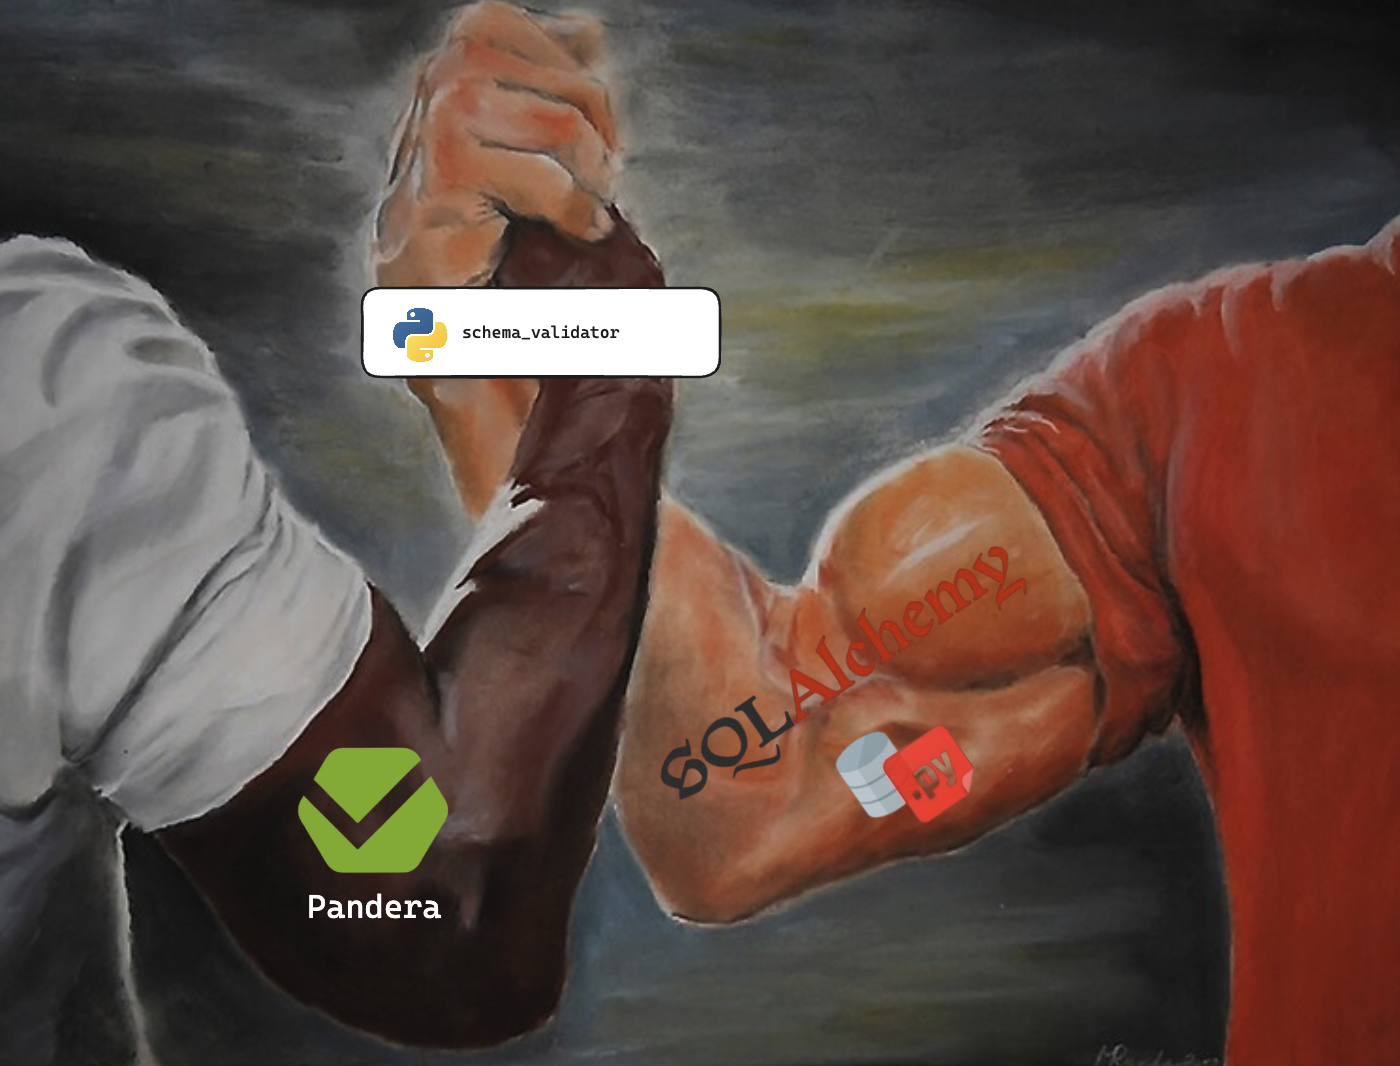
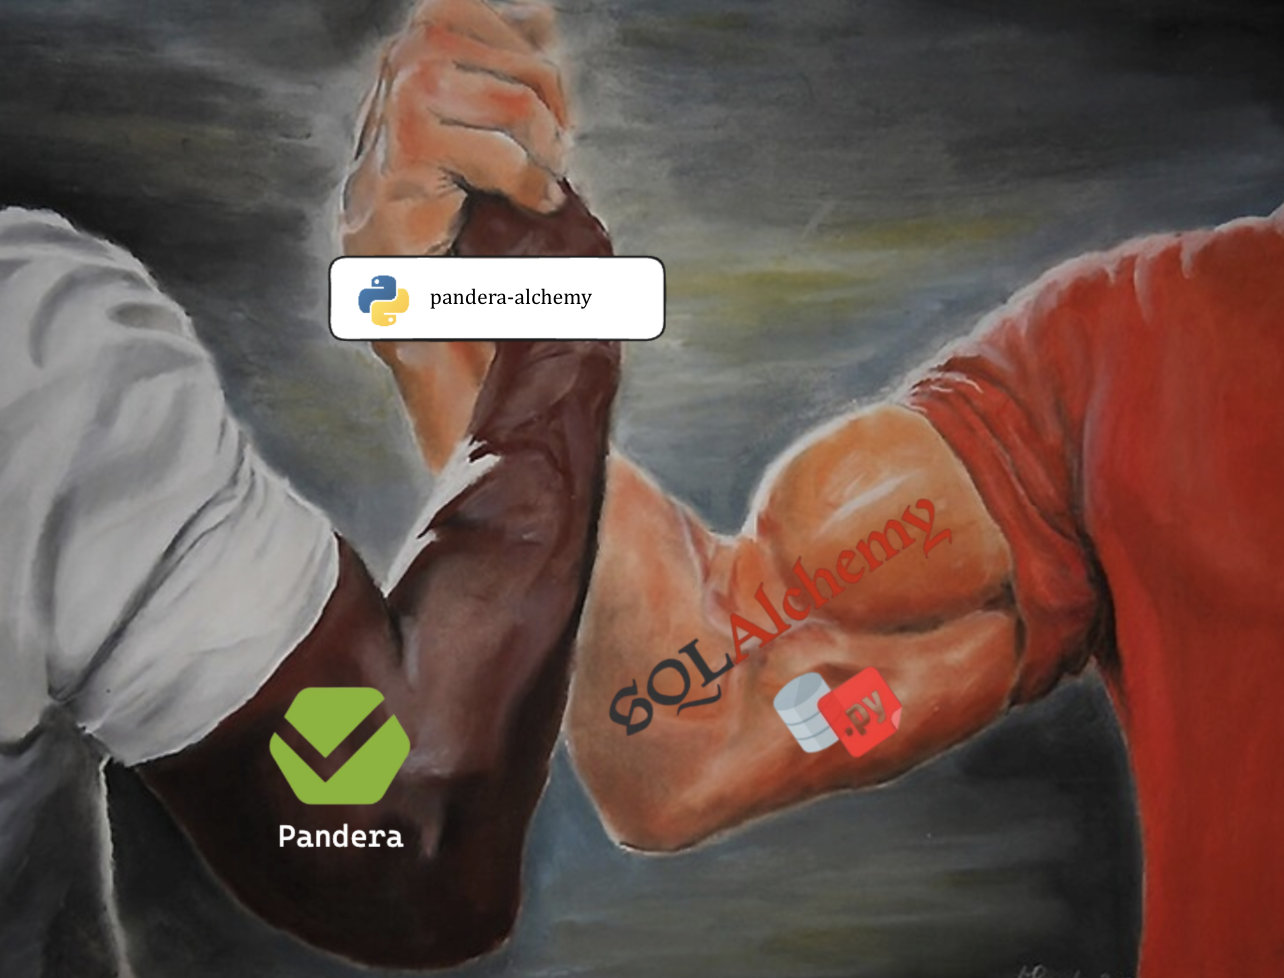
Update cover image and README

diff --git a/README.md b/README.md
@@ -10,10 +10,42 @@ In modern data pipelines, ensuring that the structure of database tables matches
 
 ## Installation
 
-To add the `pandera_alchemy` as a dependency to a project, add it to the project's `pyproject.toml` file:
+### As a Library
+
+To install the `pandera_alchemy` package as a dependency, retrieve it from the Python Package Index (PyPI) using `pip` or `poetry`.
+
+```sh
+pip install pandera_alchemy
+```
+
+or 
+
+```sh
+poetry add pandera_alchemy
+```
+
+### Local Development
+
+If you want to contribute to the development of `pandera_alchemy`, you can clone the repository and set up a local development environment.
 
 
-Install the dependencies:
-    ```sh
-    poetry install
-    ```
+Clone the repository:
+```sh
+git clone https://github.com/TCRichards/pandera-alchemy.git
+```
+
+Change into the project directory:
+```sh
+cd pandera-alchemy
+```
+
+
+Create a virtual environment and install dependencies with `poetry`:
+```sh
+poetry install
+```
+
+
+# License
+
+This project is licensed under the MIT License. See the [LICENSE](./LICENSE) file for details.
